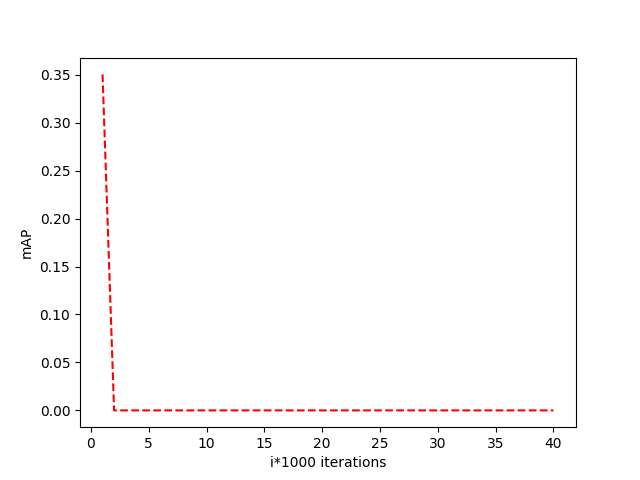
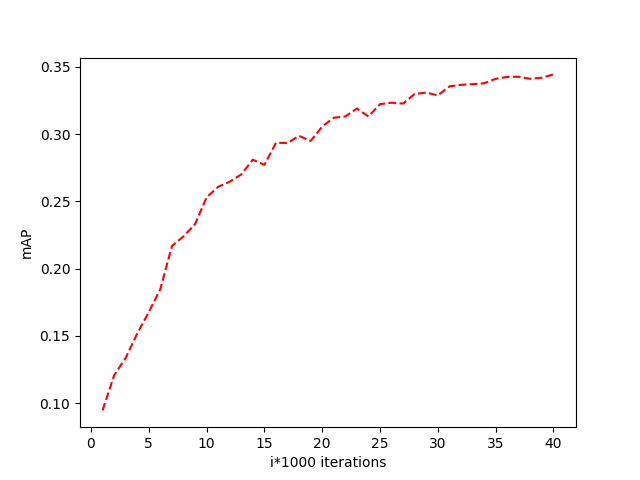
+ sync

diff --git a/04_pascal_vgg_finetune.py b/04_pascal_vgg_finetune.py
@@ -10,10 +10,12 @@ import argparse
 import os.path as osp
 from PIL import Image
 from functools import partial
+import matplotlib
+matplotlib.use('Agg')
 import matplotlib.pyplot as plt
 from eval import compute_map
 #import models
-
+plt.ioff()
 tf.logging.set_verbosity(tf.logging.INFO)
 
 CLASS_NAMES = [
@@ -39,6 +41,41 @@ CLASS_NAMES = [
     'tvmonitor',
 ]
 
+weight_vgg_map = {
+      'vgg_16/conv1/conv1_1/biases': 'conv1_1/bias',
+            'vgg_16/conv1/conv1_1/weights': 'conv1_1/kernel',
+            'vgg_16/conv1/conv1_2/biases': 'conv1_2/bias',
+            'vgg_16/conv1/conv1_2/weights': 'conv1_2/kernel',
+            'vgg_16/conv2/conv2_1/biases': 'conv2_1/bias',
+            'vgg_16/conv2/conv2_1/weights': 'conv2_1/kernel',
+            'vgg_16/conv2/conv2_2/biases': 'conv2_2/bias',
+            'vgg_16/conv2/conv2_2/weights': 'conv2_2/kernel',
+            'vgg_16/conv3/conv3_1/biases': 'conv3_1/bias',
+            'vgg_16/conv3/conv3_1/weights': 'conv3_1/kernel',
+            'vgg_16/conv3/conv3_2/biases': 'conv3_2/bias',
+            'vgg_16/conv3/conv3_2/weights': 'conv3_2/kernel',
+            'vgg_16/conv3/conv3_3/biases': 'conv3_3/bias',
+            'vgg_16/conv3/conv3_3/weights': 'conv3_3/kernel',
+            'vgg_16/conv4/conv4_1/biases': 'conv4_1/bias',
+            'vgg_16/conv4/conv4_1/weights': 'conv4_1/kernel',
+            'vgg_16/conv4/conv4_2/biases': 'conv4_2/bias',
+            'vgg_16/conv4/conv4_2/weights': 'conv4_2/kernel',
+            'vgg_16/conv4/conv4_3/biases': 'conv4_3/bias',
+            'vgg_16/conv4/conv4_3/weights': 'conv4_3/kernel',
+            'vgg_16/conv5/conv5_1/biases': 'conv5_1/bias',
+            'vgg_16/conv5/conv5_1/weights': 'conv5_1/kernel',
+            'vgg_16/conv5/conv5_2/biases': 'conv5_2/bias',
+            'vgg_16/conv5/conv5_2/weights': 'conv5_2/kernel',
+            'vgg_16/conv5/conv5_3/biases': 'conv5_3/bias',
+            'vgg_16/conv5/conv5_3/weights': 'conv5_3/kernel',
+            'vgg_16/fc6/biases': 'fc6/bias',
+            'vgg_16/fc6/weights': 'fc6/kernel',
+            'vgg_16/fc7/biases': 'fc7/bias',
+            'vgg_16/fc7/weights': 'fc7/kernel'}
+
+class RestoreHook(tf.train.SessionRunHook):
+    def begin(self):
+        tf.contrib.framework.init_from_checkpoint('./vgg_pretrained/vgg_16.ckpt', weight_vgg_map)
 
 def cnn_model_fn(features, labels, mode, num_classes=20):
 
@@ -58,41 +95,43 @@ def cnn_model_fn(features, labels, mode, num_classes=20):
     # VGG16 archirecture
 
     # Block - 1  
-    conv1 = tf.layers.conv2d(inputs=final_input, filters=64, kernel_size=[3,3], padding="same", activation=tf.nn.relu, use_bias=True, trainable=True, bias_initializer=tf.zeros_initializer(), kernel_initializer=tf.contrib.layers.xavier_initializer())
-    conv2 = tf.layers.conv2d(inputs=conv1, filters=64, kernel_size=[3,3], padding="same", activation=tf.nn.relu, use_bias=True, trainable=True, bias_initializer=tf.zeros_initializer(), kernel_initializer=tf.contrib.layers.xavier_initializer())
+    conv1 = tf.layers.conv2d(inputs=final_input, filters=64, kernel_size=[3,3], padding="same", activation=tf.nn.relu, use_bias=True, trainable=True, bias_initializer=tf.zeros_initializer(), kernel_initializer=tf.contrib.layers.xavier_initializer(), name='conv1_1')
+    conv2 = tf.layers.conv2d(inputs=conv1, filters=64, kernel_size=[3,3], padding="same", activation=tf.nn.relu, use_bias=True, trainable=True, bias_initializer=tf.zeros_initializer(), kernel_initializer=tf.contrib.layers.xavier_initializer(), name='conv1_2')
     pool1 = tf.layers.max_pooling2d(inputs=conv2, pool_size=[2, 2], strides=2)
 
     # Block - 2
-    conv3 = tf.layers.conv2d(inputs=pool1, filters=128, kernel_size=[3,3], padding="same", activation=tf.nn.relu, use_bias=True, trainable=True, bias_initializer=tf.zeros_initializer(), kernel_initializer=tf.contrib.layers.xavier_initializer())
-    conv4 = tf.layers.conv2d(inputs=conv3, filters=128, kernel_size=[3,3], padding="same", activation=tf.nn.relu, use_bias=True, trainable=True, bias_initializer=tf.zeros_initializer(), kernel_initializer=tf.contrib.layers.xavier_initializer())
+    conv3 = tf.layers.conv2d(inputs=pool1, filters=128, kernel_size=[3,3], padding="same", activation=tf.nn.relu, use_bias=True, trainable=True, bias_initializer=tf.zeros_initializer(), kernel_initializer=tf.contrib.layers.xavier_initializer(), name='conv2_1')
+    conv4 = tf.layers.conv2d(inputs=conv3, filters=128, kernel_size=[3,3], padding="same", activation=tf.nn.relu, use_bias=True, trainable=True, bias_initializer=tf.zeros_initializer(), kernel_initializer=tf.contrib.layers.xavier_initializer(), name='conv2_2')
     pool2 = tf.layers.max_pooling2d(inputs=conv4, pool_size=[2, 2], strides=2)
 
     # Block - 3
-    conv5 = tf.layers.conv2d(inputs=pool2, filters=256, kernel_size=[3,3], padding="same", activation=tf.nn.relu, use_bias=True, trainable=True, bias_initializer=tf.zeros_initializer(), kernel_initializer=tf.contrib.layers.xavier_initializer())
-    conv6 = tf.layers.conv2d(inputs=conv5, filters=256, kernel_size=[3,3], padding="same", activation=tf.nn.relu, use_bias=True, trainable=True, bias_initializer=tf.zeros_initializer(), kernel_initializer=tf.contrib.layers.xavier_initializer())
-    conv7 = tf.layers.conv2d(inputs=conv6, filters=256, kernel_size=[3,3], padding="same", activation=tf.nn.relu, use_bias=True, trainable=True, bias_initializer=tf.zeros_initializer(), kernel_initializer=tf.contrib.layers.xavier_initializer())
+    conv5 = tf.layers.conv2d(inputs=pool2, filters=256, kernel_size=[3,3], padding="same", activation=tf.nn.relu, use_bias=True, trainable=True, bias_initializer=tf.zeros_initializer(), kernel_initializer=tf.contrib.layers.xavier_initializer(), name='conv3_1')
+    conv6 = tf.layers.conv2d(inputs=conv5, filters=256, kernel_size=[3,3], padding="same", activation=tf.nn.relu, use_bias=True, trainable=True, bias_initializer=tf.zeros_initializer(), kernel_initializer=tf.contrib.layers.xavier_initializer(), name='conv3_2')
+    conv7 = tf.layers.conv2d(inputs=conv6, filters=256, kernel_size=[3,3], padding="same", activation=tf.nn.relu, use_bias=True, trainable=True, bias_initializer=tf.zeros_initializer(), kernel_initializer=tf.contrib.layers.xavier_initializer(), name='conv3_3')
     pool3 = tf.layers.max_pooling2d(inputs=conv7, pool_size=[2, 2], strides=2)
 
     # Block - 4
-    conv8 = tf.layers.conv2d(inputs=pool3, filters=512, kernel_size=[3,3], padding="same", activation=tf.nn.relu, use_bias=True, trainable=True, bias_initializer=tf.zeros_initializer(), kernel_initializer=tf.contrib.layers.xavier_initializer())
-    conv9 = tf.layers.conv2d(inputs=conv8, filters=512, kernel_size=[3,3], padding="same", activation=tf.nn.relu, use_bias=True, trainable=True, bias_initializer=tf.zeros_initializer(), kernel_initializer=tf.contrib.layers.xavier_initializer())
-    conv10 = tf.layers.conv2d(inputs=conv9, filters=512, kernel_size=[3,3], padding="same", activation=tf.nn.relu, use_bias=True, trainable=True, bias_initializer=tf.zeros_initializer(), kernel_initializer=tf.contrib.layers.xavier_initializer())
+    conv8 = tf.layers.conv2d(inputs=pool3, filters=512, kernel_size=[3,3], padding="same", activation=tf.nn.relu, use_bias=True, trainable=True, bias_initializer=tf.zeros_initializer(), kernel_initializer=tf.contrib.layers.xavier_initializer(), name='conv4_1')
+    conv9 = tf.layers.conv2d(inputs=conv8, filters=512, kernel_size=[3,3], padding="same", activation=tf.nn.relu, use_bias=True, trainable=True, bias_initializer=tf.zeros_initializer(), kernel_initializer=tf.contrib.layers.xavier_initializer(), name='conv4_2')
+    conv10 = tf.layers.conv2d(inputs=conv9, filters=512, kernel_size=[3,3], padding="same", activation=tf.nn.relu, use_bias=True, trainable=True, bias_initializer=tf.zeros_initializer(), kernel_initializer=tf.contrib.layers.xavier_initializer(), name='conv4_3')
     pool4 = tf.layers.max_pooling2d(inputs=conv10, pool_size=[2, 2], strides=2)
 
     # Block - 5 
-    conv11 = tf.layers.conv2d(inputs=pool4, filters=512, kernel_size=[3,3], padding="same", activation=tf.nn.relu, use_bias=True, trainable=True, bias_initializer=tf.zeros_initializer(), kernel_initializer=tf.contrib.layers.xavier_initializer())
-    conv12 = tf.layers.conv2d(inputs=conv11, filters=512, kernel_size=[3,3], padding="same", activation=tf.nn.relu, use_bias=True, trainable=True, bias_initializer=tf.zeros_initializer(), kernel_initializer=tf.contrib.layers.xavier_initializer())
-    conv13 = tf.layers.conv2d(inputs=conv12, filters=512, kernel_size=[3,3], padding="same", activation=tf.nn.relu, use_bias=True, trainable=True, bias_initializer=tf.zeros_initializer(), kernel_initializer=tf.contrib.layers.xavier_initializer())
+    conv11 = tf.layers.conv2d(inputs=pool4, filters=512, kernel_size=[3,3], padding="same", activation=tf.nn.relu, use_bias=True, trainable=True, bias_initializer=tf.zeros_initializer(), kernel_initializer=tf.contrib.layers.xavier_initializer(), name='conv5_1')
+    conv12 = tf.layers.conv2d(inputs=conv11, filters=512, kernel_size=[3,3], padding="same", activation=tf.nn.relu, use_bias=True, trainable=True, bias_initializer=tf.zeros_initializer(), kernel_initializer=tf.contrib.layers.xavier_initializer(), name='conv5_2')
+    conv13 = tf.layers.conv2d(inputs=conv12, filters=512, kernel_size=[3,3], padding="same", activation=tf.nn.relu, use_bias=True, trainable=True, bias_initializer=tf.zeros_initializer(), kernel_initializer=tf.contrib.layers.xavier_initializer(), name='conv5_3')
     pool5 = tf.layers.max_pooling2d(inputs=conv13, pool_size=[2, 2], strides=2)
 
-    pool5_flat = tf.reshape(pool5, [-1, 7*7*512])
+    #pool5_flat = tf.reshape(pool5, [-1, 7*7*512])
+    #pool5_flat = tf.contrib.layers.flatten(pool5)
     # FC Layers
-    dense1 = tf.layers.dense(inputs=pool5_flat, units=4096, activation=tf.nn.relu, use_bias=True, trainable=True, bias_initializer=tf.zeros_initializer(), kernel_initializer=tf.contrib.layers.xavier_initializer())
+    dense1 = tf.layers.conv2d(inputs=pool5, filters=4096, kernel_size=[7,7], strides=1, activation=tf.nn.relu, use_bias=True, trainable=True, bias_initializer=tf.zeros_initializer(), kernel_initializer=tf.contrib.layers.xavier_initializer(), name='fc6', padding='valid')
     dropout1 = tf.layers.dropout(inputs=dense1, rate=0.5, training=mode == tf.estimator.ModeKeys.TRAIN)
-    dense2 = tf.layers.dense(inputs=dropout1, units=4096, activation=tf.nn.relu, use_bias=True, trainable=True, bias_initializer=tf.zeros_initializer(), kernel_initializer=tf.contrib.layers.xavier_initializer())
+    dense2 = tf.layers.conv2d(inputs=dropout1, filters=4096, kernel_size=[1,1], strides=1, activation=tf.nn.relu, use_bias=True, trainable=True, bias_initializer=tf.zeros_initializer(), kernel_initializer=tf.contrib.layers.xavier_initializer(), name='fc7', padding='valid')
     dropout2 = tf.layers.dropout(inputs=dense2, rate=0.5, training=mode == tf.estimator.ModeKeys.TRAIN)
 
-    logits = tf.layers.dense(inputs=dropout2, units=num_classes)
+    dropout2_flat = tf.reshape(dropout2, [-1, 4096])
+    logits = tf.layers.dense(inputs=dropout2_flat, units=num_classes, name='fc8_new')
     predictions = {"probabilities": tf.sigmoid(logits, name="sigmoid_tensor")}
 
 
@@ -104,7 +143,7 @@ def cnn_model_fn(features, labels, mode, num_classes=20):
     # Configure the Training Op (for TRAIN mode)
     if mode == tf.estimator.ModeKeys.TRAIN:
         tf.summary.scalar('Train Loss', loss)
-        lr = tf.train.exponential_decay(learning_rate=0.0001,global_step=tf.train.get_global_step(),decay_steps=1000,decay_rate=0.5, staircase=True)
+        lr = tf.train.exponential_decay(learning_rate=0.001,global_step=tf.train.get_global_step(),decay_steps=1000,decay_rate=0.5, staircase=True)
         tf.summary.scalar('Learning rate', lr)
         optimizer = tf.train.MomentumOptimizer(
                     learning_rate=lr,
@@ -199,7 +238,7 @@ def main():
     BATCH_SIZE = 10
 
 
-    map_list = np.zeros((40,1), dtype='float')
+    map_list = np.zeros((11,1), dtype='float')
 
     train_data, train_labels, train_weights = load_pascal(args.data_dir, split='trainval')
     eval_data, eval_labels, eval_weights = load_pascal(args.data_dir, split='test')
@@ -220,6 +259,9 @@ def main():
         num_epochs=None,
         shuffle=True)
 
+    # Load VGG pretrained weights
+    vgg_pretrained_weights = RestoreHook()
+     
     # Evaluate the model and print results
     eval_input_fn = tf.estimator.inputs.numpy_input_fn(
         x={"x": eval_data, "w": eval_weights},
@@ -227,14 +269,17 @@ def main():
         num_epochs=1,
         shuffle=False)
 
-    for given_iter in range(0,10):
-        pascal_classifier.train(input_fn=train_input_fn, steps=1000, hooks=[logging_hook])
+    for given_iter in range(0,11):
+        if given_iter == 0:
+            pascal_classifier.train(input_fn=train_input_fn, steps=400, hooks=[logging_hook, vgg_pretrained_weights])
+        else:
+            pascal_classifier.train(input_fn=train_input_fn, steps=400, hooks=[logging_hook])
         pred = list(pascal_classifier.predict(input_fn=eval_input_fn))
         pred = np.stack([p['probabilities'] for p in pred])
         AP = compute_map(eval_labels, pred, eval_weights, average=None)
         print('\nmAP : ' + str(np.mean(AP)) + '\n')
         map_list[given_iter] = np.mean(AP)
-    xx = range(1,41)
+    xx = range(1,12)
     plt.plot(xx, map_list, 'r--')
     plt.xlabel('i*1000 iterations')
     plt.ylabel('mAP')

diff --git a/03_pascal_vgg.py b/03_pascal_vgg.py
@@ -10,10 +10,13 @@ import argparse
 import os.path as osp
 from PIL import Image
 from functools import partial
+import matplotlib
+matplotlib.use('Agg')
 import matplotlib.pyplot as plt
 from eval import compute_map
 #import models
 
+plt.ioff()
 tf.logging.set_verbosity(tf.logging.INFO)
 
 CLASS_NAMES = [
@@ -49,12 +52,11 @@ def cnn_model_fn(features, labels, mode, num_classes=20):
     # Do data augmentation here !
     if mode == tf.estimator.ModeKeys.PREDICT:
         final_input = tf.map_fn(lambda im_tf: tf.image.central_crop(im_tf, float(0.875)), input_layer)
-        final_input = tf.map_fn(lambda im_tf: tf.image.per_image_standardization(im_tf), final_input)
 
     if mode == tf.estimator.ModeKeys.TRAIN:
         final_input = tf.map_fn(lambda im_tf: tf.image.random_flip_left_right(im_tf), input_layer)
         final_input = tf.map_fn(lambda im_tf: tf.random_crop(im_tf, size=[224,224,3]), final_input)
-        final_input = tf.map_fn(lambda im_tf: tf.image.per_image_standardization(im_tf), final_input)
+        tf.summary.image(name='train_images', tensor=final_input, max_outputs=10)
 
     # VGG16 archirecture
 

diff --git a/02_pascal_alexnet.py b/02_pascal_alexnet.py
@@ -49,12 +49,10 @@ def cnn_model_fn(features, labels, mode, num_classes=20):
     # Do data augmentation here !
     if mode == tf.estimator.ModeKeys.PREDICT:
         final_input = tf.map_fn(lambda im_tf: tf.image.central_crop(im_tf, float(0.875)), input_layer)
-        final_input = tf.map_fn(lambda im_tf: tf.image.per_image_standardization(im_tf), final_input)
 
     if mode == tf.estimator.ModeKeys.TRAIN:
         final_input = tf.map_fn(lambda im_tf: tf.image.random_flip_left_right(im_tf), input_layer)
         final_input = tf.map_fn(lambda im_tf: tf.random_crop(im_tf, size=[224,224,3]), final_input)
-        final_input = tf.map_fn(lambda im_tf: tf.image.per_image_standardization(im_tf), final_input)
 
     # AlexNet archirecture
     conv1 = tf.layers.conv2d(inputs=final_input, filters=96, kernel_size=[11, 11], strides=4, padding="valid", activation=tf.nn.relu, use_bias=True, trainable=True, bias_initializer=tf.zeros_initializer(), kernel_initializer=tf.truncated_normal_initializer(mean=0.0, stddev=0.01))

diff --git a/06_pascal_alexnet_mixup.py b/06_pascal_alexnet_mixup.py
@@ -60,7 +60,7 @@ def cnn_model_fn(features, labels, mode, num_classes=20):
         final_input = tf.TensorArray(dtype=tf.float32, size=input_layer.shape[0], infer_shape=True)
         final_label = tf.TensorArray(dtype=tf.float32, size=input_layer.shape[0], infer_shape=True)
         batch_size = 10
-        alpha = 0.5
+        alpha = 0.1
         weights = np.random.beta(alpha, alpha, batch_size)
         for i in range(0, batch_size):
             lam_1 = tf.constant(float(weights[i]), dtype=tf.float32)
